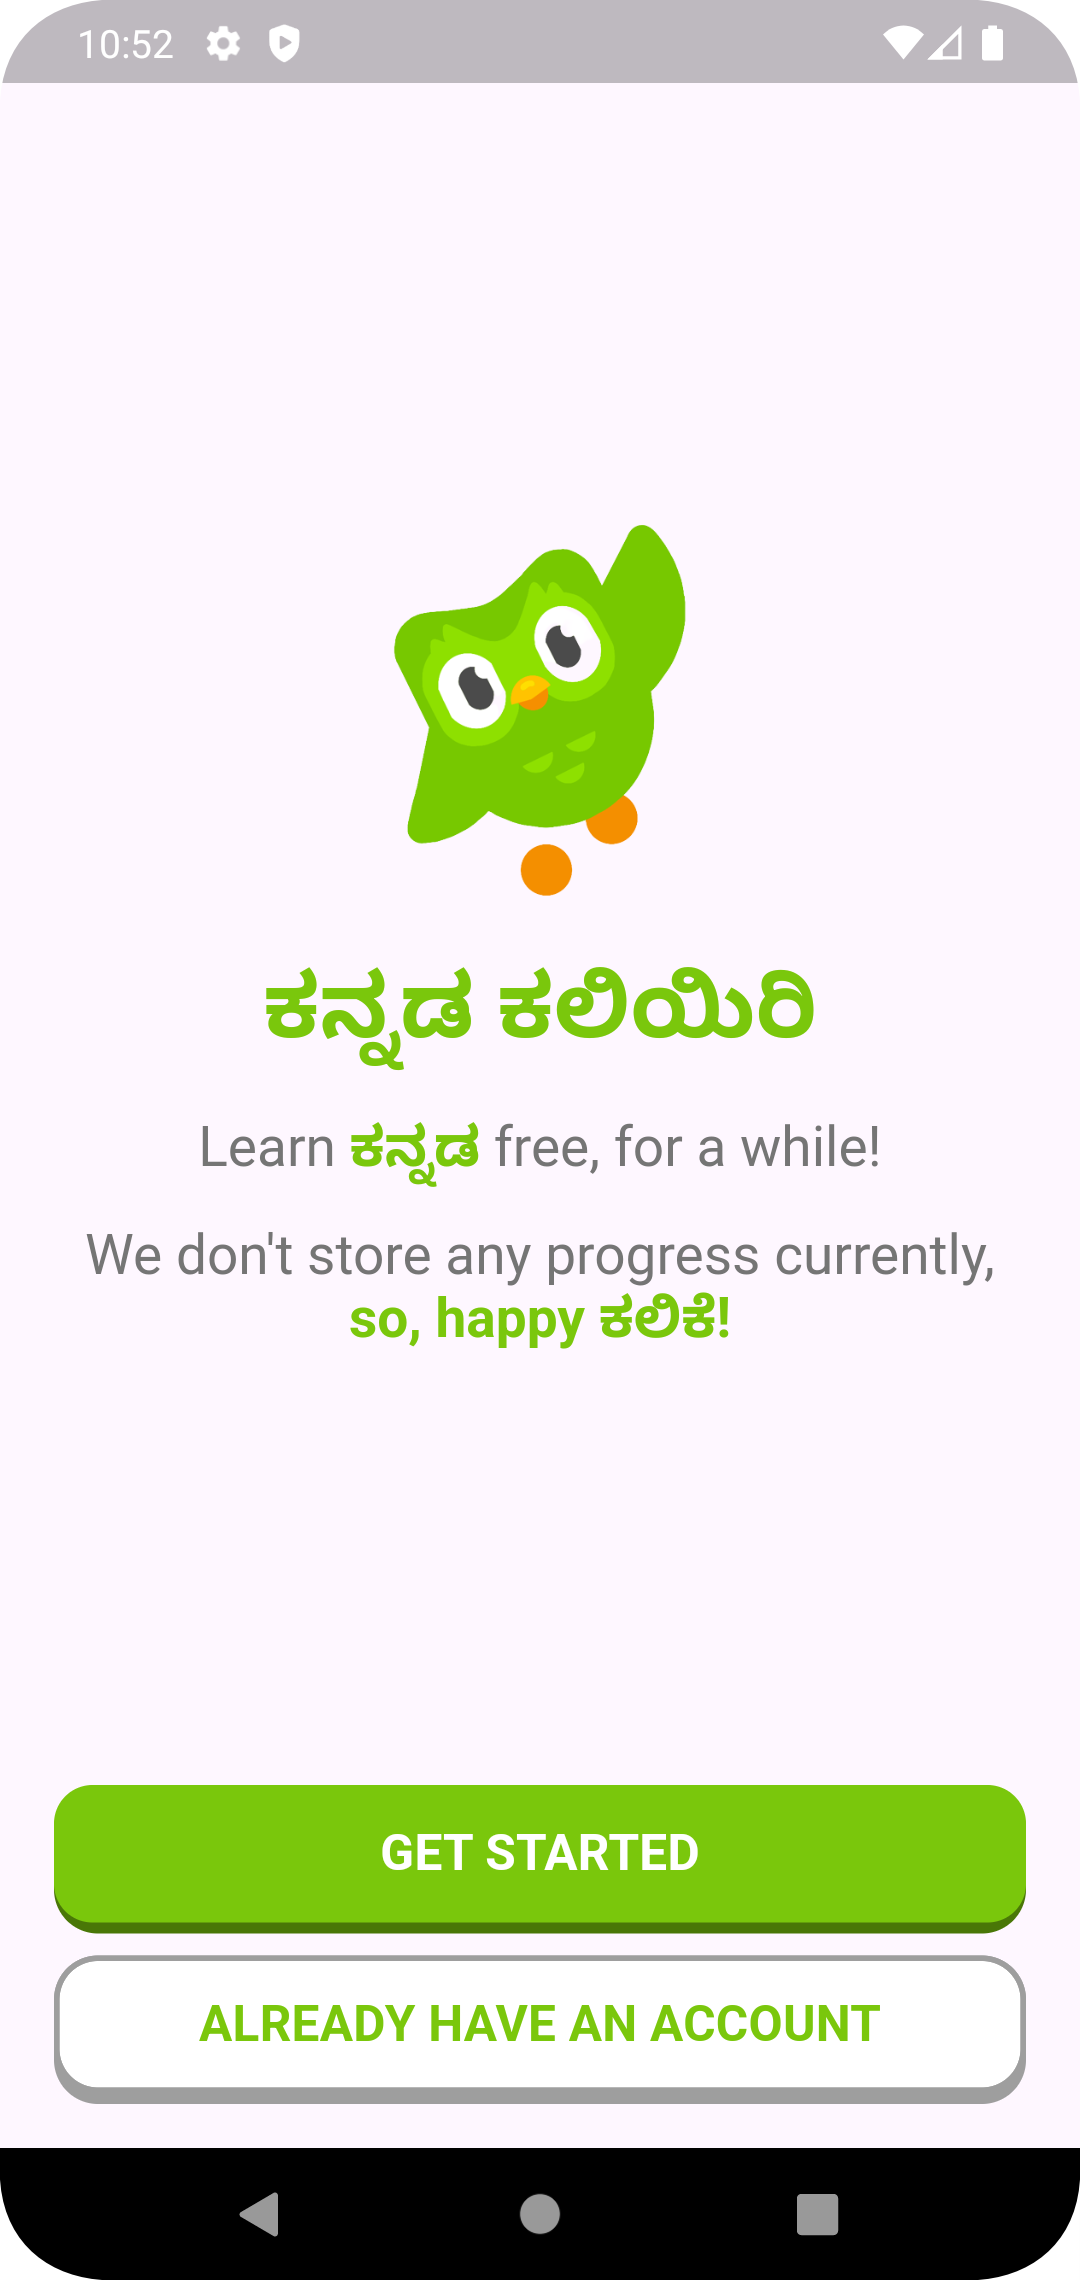
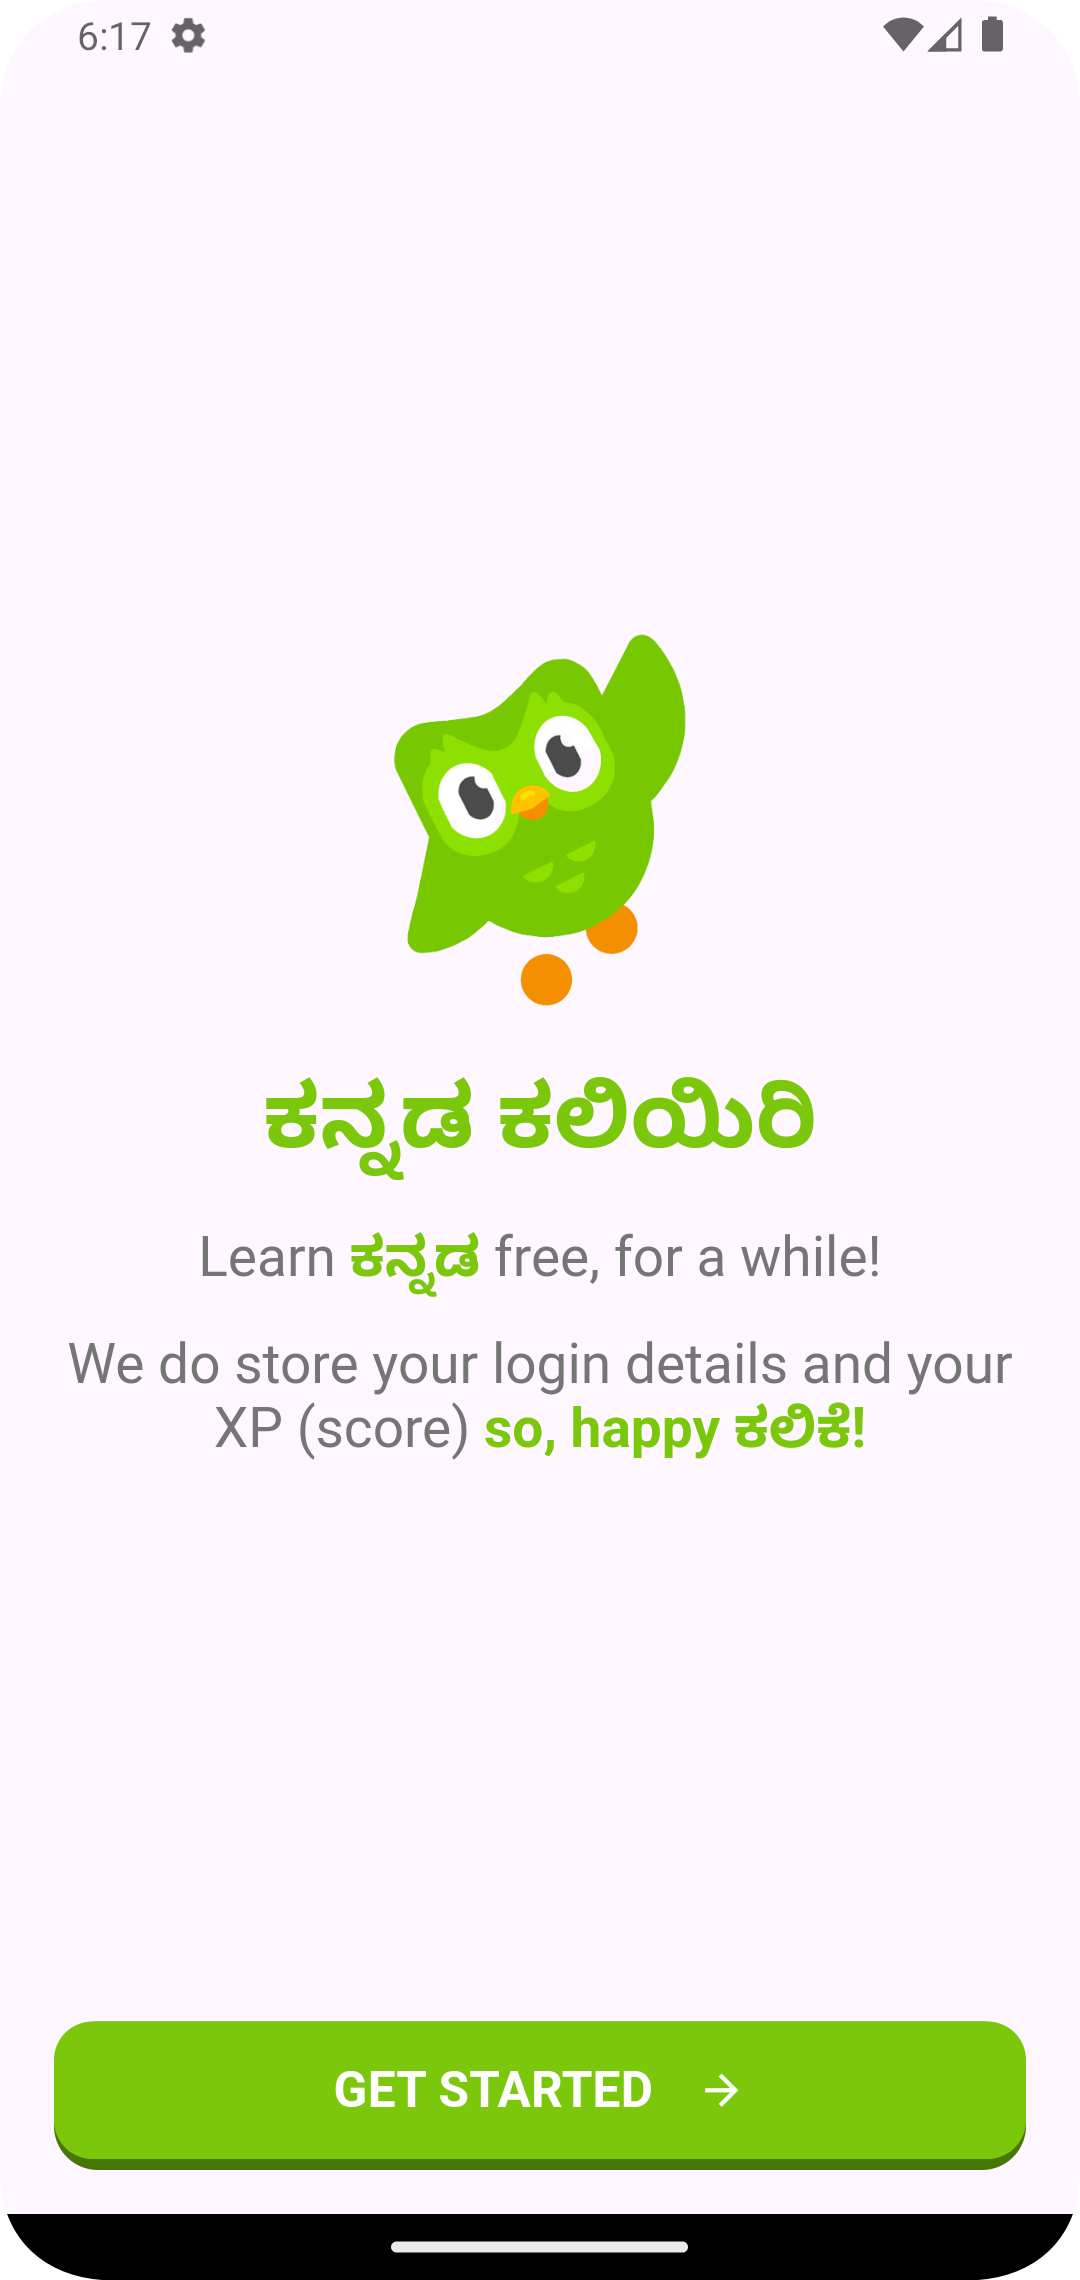
updated screenshots

Changed region(s): [[0.0, 0.7785, 1.0, 0.9965], [0.0611, 0.218, 0.9472, 0.6539], [0.0, 0.0, 1.0, 0.0623]]

diff --git a/lib/views/splash/components/center_display.dart b/lib/views/splash/components/center_display.dart
@@ -81,7 +81,7 @@ class CenterDisplay extends StatelessWidget {
               text: TextSpan(
                 children: [
                   TextSpan(
-                    text: 'We don\'t store any progress currently, ',
+                    text: 'We do store your login details and your XP (score)',
                     style: TextStyle(fontSize: 20, color: Colors.grey.shade600),
                   ),
                   const TextSpan(
